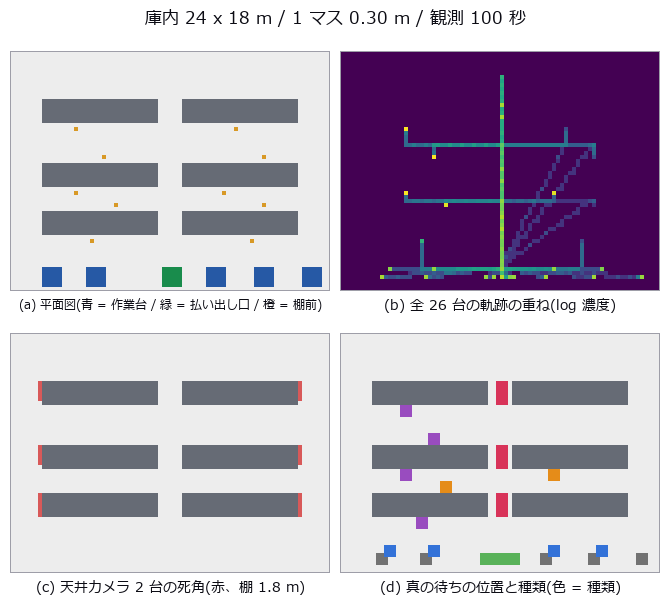
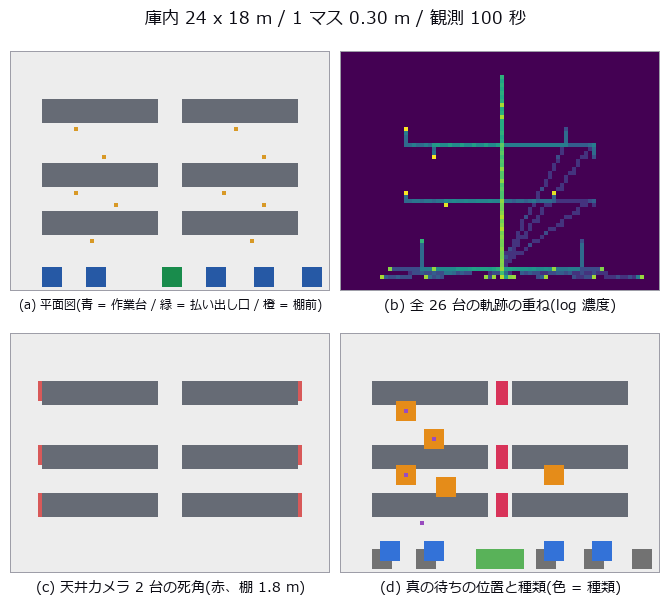
auto: poc_machine_condition_fusion.py 編集前 (2026-09-08 00:54)

diff --git a/examples/poc_warehouse_flow.py b/examples/poc_warehouse_flow.py
@@ -1225,10 +1225,25 @@ def _up(img, k=4):
     return np.repeat(np.repeat(a, k, axis=0), k, axis=1)
 
 
+#: 印の大きさ。★同じ棚前で「補充待ち」と「欠品」が起きるので、**大きい印から
+#: 描いて小さい印を上に重ねる**。同じ大きさで描くと後から描いたほうが前のを
+#: 完全に隠し、図の上では 5 件が 2 件に見えた。
+TYPE_R = {"補充待ち": 2, "システム待ち": 2, "人待ち": 2, "作業": 2,
+          "通路の干渉": 1, "欠品": 0, "その他": 0}
+
+
 def _stamp(img, xm, ym, rgb, r=1):
-    iy = int(np.clip(ym / CELL, 1, NY - 2))
-    ix = int(np.clip(xm / CELL, 1, NX - 2))
+    iy = int(np.clip(ym / CELL, 2, NY - 3))
+    ix = int(np.clip(xm / CELL, 2, NX - 3))
     img[iy - r:iy + r + 1, ix - r:ix + r + 1] = rgb
+    return img
+
+
+def _stamp_events(img, events, key):
+    """種類つきの事象を、印の大きい順に重ねて描く。"""
+    for e in sorted(events, key=lambda e: -TYPE_R.get(e[key], 1)):
+        img = _stamp(img, e["x"], e["y"], TYPE_RGB.get(e[key], (0.7, 0.7, 0.7)),
+                     r=TYPE_R.get(e[key], 1))
     return img
 
 
@@ -1254,9 +1269,7 @@ def section_figures(base: dict, tru: dict, heat: dict, clear: np.ndarray) -> Non
     seen_img = _floor_rgb(racks)
     seen_img[~vis & ~racks] = (0.85, 0.35, 0.35)
 
-    truth_img = _floor_rgb(racks)
-    for e in base["scene"]["events"]:
-        truth_img = _stamp(truth_img, e["x"], e["y"], TYPE_RGB[e["cause"]], r=1)
+    truth_img = _stamp_events(_floor_rgb(racks), base["scene"]["events"], "cause")
 
     figs.save_grid("scene_layout",
                    [_up(plan), _up(paths), _up(seen_img), _up(truth_img)],
@@ -1294,10 +1307,7 @@ def section_figures(base: dict, tru: dict, heat: dict, clear: np.ndarray) -> Non
                            % K_SEC)
 
     # (c) 検出の型別地図(真値と並べる)
-    det_img = _floor_rgb(racks)
-    for d in base["det"]["events"]:
-        det_img = _stamp(det_img, d["x"], d["y"], TYPE_RGB.get(d["kind"],
-                                                               (0.7, 0.7, 0.7)), r=1)
+    det_img = _stamp_events(_floor_rgb(racks), base["det"]["events"], "kind")
     figs.save_grid("map_by_type", [_up(truth_img), _up(det_img)],
                    ["真値(仕込んだ待ち)", "提案(x-y-t の柱から読んだ型)"],
                    ncols=2, title="種類ごとの色分け地図",
